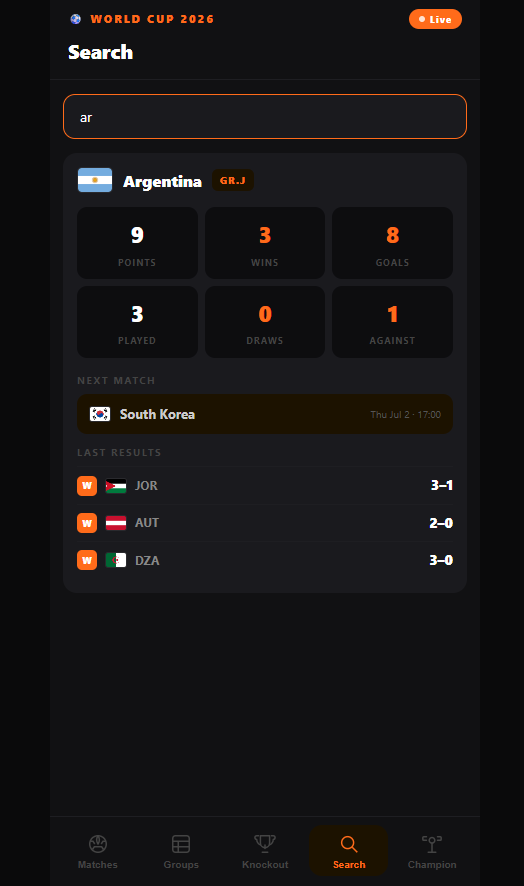
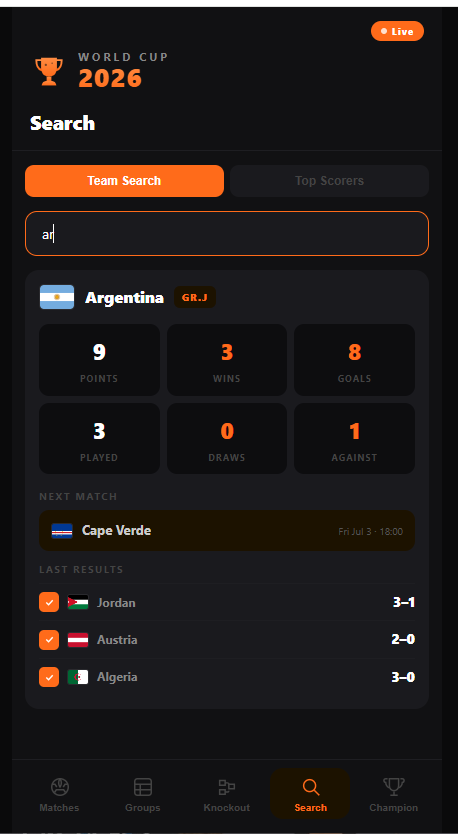
docs: update README with full process, lessons learned, and new screenshots

diff --git a/README.md b/README.md
@@ -1,6 +1,6 @@
 # ⚽ World Cup 2026 App
 
-> A mobile-first World Cup 2026 tracker built from scratch with vanilla HTML, CSS & JavaScript — no frameworks, no libraries, just fundamentals.
+> A mobile-first World Cup 2026 tracker built from scratch with vanilla HTML, CSS & JavaScript — no frameworks, no libraries, just fundamentals. Now powered by real, automatically updating tournament data.
 
 🔴 **[Live Demo → devcodemate.github.io/world-cup-2026](https://devcodemate.github.io/world-cup-2026)**
 
@@ -8,7 +8,7 @@
 ![CSS](https://img.shields.io/badge/CSS3-1572B6?style=flat&logo=css3&logoColor=white)
 ![JavaScript](https://img.shields.io/badge/JavaScript-F7DF1E?style=flat&logo=javascript&logoColor=black)
 ![GitHub Pages](https://img.shields.io/badge/GitHub%20Pages-222222?style=flat&logo=github&logoColor=white)
-![API](https://img.shields.io/badge/API--Football-00A650?style=flat&logoColor=white)
+![GitHub Actions](https://img.shields.io/badge/GitHub%20Actions-2088FF?style=flat&logo=githubactions&logoColor=white)
 
 ---
 
@@ -16,9 +16,13 @@
 
 <div align="center">
 
-| Matches | Groups | Search | Champion |
-|---------|--------|--------|----------|
-| ![Matches](images/matches-20260.png) | ![Groups](images/group-2026.png) | ![Search](images/search-2026.png) | ![Champion](images/champion-2026.png) |
+| Matches | Groups | Knockout |
+|---------|--------|----------|
+| ![Matches](images/matches-2026.png) | ![Groups](images/group-2026.png) | ![Knockout](images/knockout-2026.png) |
+
+| Search | Top Scorers | Champion |
+|--------|-------------|----------|
+| ![Search](images/search-2026.png) | ![Top Scorers](images/scorers-2026.png) | ![Champion](images/champion-2026.png) |
 
 </div>
 
@@ -28,25 +32,24 @@
 
 I'm Flo — a self-taught junior frontend developer building my first portfolio from scratch.
 
-This project started as a real question: *can I build something people actually want to use?*
+This project started as a real question: *can I build something people actually want to use, while the event it's about is literally happening?*
 
-The 2026 World Cup is happening right now. Millions of people are checking scores, tracking their team, following the road to the final. I decided to build my own tracker — not with a tutorial, not copying a template, but designing it from a wireframe and coding it piece by piece.
-
-This is the result: a real app, deployed, working, built by a junior dev who's learning every single day.
+The 2026 World Cup is underway right now. I decided to build my own live tracker — not from a tutorial, not copying a template, but designing it from a wireframe, coding it piece by piece, and connecting it to real automated data over the course of building it. This README documents that whole process, mistakes included, because I think the mistakes are the most useful part for anyone reading this.
 
 ---
 
 ## ✨ Features
 
-- **📅 Match schedule** — every game from group stage to Round of 32, with dates and local times
-- **🔴 Live results** — scores and results for all completed matches
-- **📊 Group standings** — all 12 groups (A–L) with W/D/L, GF, GA, GD and points — calculated automatically from match data
-- **🏆 Knockout stage** — Round of 32 bracket with upcoming matches and win probabilities
-- **🔍 Team search** — search any country, see their stats: points, wins, goals, recent results and next match
-- **📈 Win probability bars** — percentage chances for upcoming matches
-- **⚽ Match detail modal** — tap any match to see goals with scorer names and minutes
-- **⏱️ Countdown** — live timer counting down to the Final on July 19
-- **🏆 Champion screen** — animated figure with the winner's flag once the tournament ends
+- **📅 Live match schedule** — every game from group stage to Round of 32, with real dates, kickoff times, and venues
+- **🔴 Real results** — scores for all completed matches, pulled automatically, not typed in by hand
+- **📊 Group standings** — all 12 groups (A–L) with W/D/L, GF, GA, GD and points — calculated automatically from match results
+- **🥊 Knockout stage** — Round of 32 results with clear ✓ advances / ✗ eliminated indicators per team, plus upcoming fixtures
+- **⚽ Goal-by-goal detail** — tap any match to see who scored, in which minute, grouped by team
+- **⚡ Top Scorers ranking** — calculated live from every goal recorded across the tournament, no separate API needed
+- **📈 Win probability bars** — a formula I designed myself, based on each team's group-stage points and goal difference, not a paid prediction API
+- **🔍 Team search** — search any country, see their stats, group position, and next match
+- **⏱️ Live countdown** — to the Final on July 19
+- **🏆 Champion screen** — animated figure that reveals the winner's flag once the tournament ends, with the three 2026 host countries (USA · Mexico · Canada) featured
 - **🌍 Flag tooltips** — tap any flag to see the full country name
 - **📱 Mobile-first** — designed for phone, works on desktop too
 
@@ -58,9 +61,9 @@ This is the result: a real app, deployed, working, built by a junior dev who's l
 |------|-----|
 | Structure | Semantic HTML5 |
 | Styling | CSS3 — custom properties, flexbox, animations |
-| Logic | Vanilla JavaScript — DOM manipulation, template literals, array methods |
-| Data | Real match data — manually curated from FIFA official sources |
-| API Integration | API-Football (api-sports.io) via GitHub Actions — auto-updates data.json every hour |
+| Logic | Vanilla JavaScript — `fetch`, DOM manipulation, template literals, array methods |
+| Data | Real match data, sourced from [openfootball/worldcup.json](https://github.com/openfootball/worldcup.json), an open-source public domain dataset |
+| Automation | GitHub Actions — fetches fresh tournament data every hour and commits it automatically |
 | Icons | Inline SVG — hand-drawn, no icon library |
 | Flags | [flagcdn.com](https://flagcdn.com) — free flag CDN |
 | Deploy | GitHub Pages — auto-deploy on every push to `main` |
@@ -70,68 +73,54 @@ Every line of code written and understood by me.
 
 ---
 
-## 🤖 API & Automation
-
-This project integrates with the **API-Football** free tier to auto-update match data:
-
-- Match results, standings and upcoming fixtures are fetched automatically via **GitHub Actions**
-- A workflow runs every hour, calls the API with a secure key stored in GitHub Secrets, and commits an updated `data.json` to the repo
-- The API key is **never exposed in the code** — it lives in GitHub Secrets only
-- Built with the guidance of **AI tools** (Claude by Anthropic) to understand API integration patterns, GitHub Actions workflow structure, and professional dev practices
+## 🤖 How the data pipeline actually works
 
 ```
-API-Football → GitHub Actions (every hour) → data.json → App
+openfootball/worldcup.json → GitHub Actions (every hour) → data.json → app.js renders it
 ```
+
+A Node.js script (`scripts/fetch-data.cjs`) runs on a schedule via GitHub Actions. It pulls the latest tournament JSON, reshapes it into the format my app understands, and commits the result as `data.json`. The frontend then does a simple `fetch('data.json')` on load — no hardcoded match arrays anymore, no API key to manage, no rate limits to worry about.
+
+I originally built this on a paid sports API and burned a good chunk of a session discovering its free tier didn't cover the 2026 season at all. Switching to a public-domain dataset that anyone can verify on GitHub turned out to be both more honest and more resilient.
+
+---
+
+## 🪲 What actually went wrong (and what I learned)
+
+Building this wasn't a straight line, and I think that's worth being upfront about:
+
+- **Wrong data source first.** I integrated API-Football before realizing its free tier only covers older seasons (2022–2024), not 2026. Lesson: check a paid API's coverage *before* writing the integration, not after.
+- **A silent JavaScript syntax error.** Leftover code at the bottom of a script (`await` outside an `async` function) silently broke the entire automation for a while — `data.json` kept regenerating empty with no clear error. Adding diagnostic logging to print the API's actual error response was what finally surfaced the real problem.
+- **Node's module system bit me.** `fetch-data.js` failed in GitHub's runner with `ERR_AMBIGUOUS_MODULE_SYNTAX`. Renaming it to `.cjs` told Node explicitly "this is CommonJS" and fixed it for good — small detail, real lesson about how Node resolves module types.
+- **Git merge conflicts, more than once.** The hourly automation and my own commits both touched `data.json` at the same time more than once. I learned `git pull`, resolving conflicts with `git checkout --ours`, and `commit --amend` for fixing a sloppy commit message — all for real, under time pressure, not from a tutorial.
+- **A name mismatch almost broke team flags.** "Curaçao" (with the cedilla) didn't match my "Curacao" entry, and "Bosnia & Herzegovina" didn't match my abbreviated "Bosnia & Herz." — both silently failed to map to a flag until I wrote a script to diff the real team names against my dictionary.
+- **I overbuilt the bracket UI first try.** My first version of the Knockout stage was a horizontal scrolling bracket like FIFA's official site. It looked fine on a wide screen and unreadable on an actual phone. I scrapped it and went back to a clear, vertical, mobile-first list instead — a good reminder that "looks impressive in a screenshot" and "actually usable on the device people will use" aren't the same thing.
 
 ---
 
 ## 📐 How I built it — the process
 
 ### 1. Design before code
-I started with wireframes — sketching the layout, the color palette (black + `#FF6B1A` orange), the navigation pattern, and the mobile viewport before writing a single line of HTML.
-
-**Design decisions I made intentionally:**
-- Dark theme because sports apps live at night
-- Orange accent — reads energy and urgency
-- Bottom nav bar — where thumbs reach on mobile
-- Sticky header so the user always knows where they are
+Wireframes first — layout, color palette (black + `#FF6B1A` orange), navigation pattern, mobile viewport, before writing a single line of HTML.
 
 ### 2. Mobile-first CSS
-CSS written starting from the smallest screen. Desktop styles added with `@media (min-width)`.
-
-Key CSS concepts used:
-- **CSS custom properties** — change one variable, update the whole app
-- **`position: sticky`** — header stays visible while content scrolls
-- **`position: fixed`** — bottom nav stays at the bottom on any screen
-- **Flexbox** — match card layout and tab bar
-- **CSS animations** (`@keyframes`) — live dot pulse, floating champion figure
+CSS written starting from the smallest screen. Desktop styles added with `@media (min-width)`. Custom properties, `position: sticky/fixed`, flexbox, `@keyframes` animations.
 
 ### 3. JavaScript — data, render, navigate
-The JS is structured in three clear responsibilities:
-
 ```
 app.js
-├── DATA        → teams, matches, standings (real tournament data)
-├── RENDER      → functions that build HTML from data
-└── NAVIGATE    → tab switching, countdown, tooltip, modal logic
+├── DATA LOADING → fetch('data.json'), normalize into app format
+├── RENDER       → functions that build HTML from data
+└── NAVIGATE     → tab switching, countdown, modal, sub-tabs
 ```
 
-Key things learned by building this:
-- `querySelectorAll` + `forEach` to connect multiple buttons with `data-tab` attributes
-- Template literals to build HTML strings dynamically
-- `setInterval` for the live countdown
-- `Array.filter`, `Array.reduce`, `Array.find` for calculating team stats on the fly
-- Dynamic standings calculated automatically from match results — no hardcoding
-- Modal pattern with CSS transitions for match detail view
-
-### 4. API integration & GitHub Actions
-- Registered for a free API-Football account
-- Stored the API key securely in GitHub Secrets
-- Built a Node.js script (`scripts/fetch-data.js`) that calls the API and generates `data.json`
-- Created a GitHub Actions workflow (`.github/workflows/update-data.yml`) that runs the script every hour automatically
+### 4. Real automated data
+- Found and integrated [openfootball/worldcup.json](https://github.com/openfootball/worldcup.json), a public-domain dataset, no API key required
+- Wrote `scripts/fetch-data.cjs` to reshape that data into my app's format, including resolving team name mismatches and computing knockout-stage references
+- Set up a GitHub Actions workflow (`.github/workflows/update-data.yml`) that runs the script every hour and auto-commits the result
 
 ### 5. Git workflow
-Used Git from commit one — not as an afterthought.
+Used Git from commit one, with real branching and recovery from real mistakes along the way:
 
 ```
 feat: initial commit — world cup 2026 app
@@ -142,11 +131,16 @@ feat: add match detail modal with goals and stats
 feat: add knockout stage panel and real verified match data
 feat: add GitHub Actions workflow to auto-update data from API-Football
 fix: correct workflows folder name
-docs: add app screenshots
+feat: replace API-Football with openfootball public dataset
+fix: rename fetch-data.js to fetch-data.cjs to resolve Node module error
+feat: connect app.js with data.json
+feat: add logo-style header branding and regenerate data.json
+feat: improve knockout results, group goals by team, and add win probability
+feat: add top scorers sub-tab to search panel
 ```
 
 Worked with:
-- **Conventional Commits** — `feat:`, `fix:`, `docs:`, `style:`
+- **Conventional Commits** — `feat:`, `fix:`, `chore:`, `merge:`
 - **Feature branches** — never committing directly to `main`
 - **GitHub Pages** — auto-deploy on every push
 
@@ -160,12 +154,12 @@ world-cup-2026/
 │   └── workflows/
 │       └── update-data.yml   ← GitHub Actions: auto-update every hour
 ├── scripts/
-│   └── fetch-data.js         ← Node.js script: calls API, writes data.json
+│   └── fetch-data.cjs        ← Node.js script: pulls and reshapes real tournament data
 ├── images/                   ← App screenshots
 ├── index.html                ← App structure, semantic HTML, SVG icons
 ├── style.css                 ← Design tokens, layout, components, animations
-├── app.js                    ← Data, render functions, navigation logic
-├── data.json                 ← Auto-generated by GitHub Actions
+├── app.js                    ← Data fetching, render functions, navigation logic
+├── data.json                 ← Auto-generated every hour, real tournament data
 └── README.md                 ← You are here
 ```
 
@@ -195,6 +189,9 @@ cd world-cup-2026
 
 # Open with Live Server in VS Code
 # Right click index.html → Open with Live Server
+
+# To refresh the data locally:
+node scripts/fetch-data.cjs
 ```
 
 No `npm install`. No build step. No config. Just open and run.
@@ -205,25 +202,26 @@ No `npm install`. No build step. No config. Just open and run.
 
 **HTML** — Semantic elements, `data-*` attributes, inline SVG
 
-**CSS** — Custom properties, mobile-first media queries, `position: sticky/fixed`, flexbox, `@keyframes` animations, pseudo-elements
+**CSS** — Custom properties, mobile-first media queries, `position: sticky/fixed`, flexbox, `@keyframes` animations, pseudo-elements, `background-clip: text` for gradient typography
 
-**JavaScript** — DOM manipulation, event listeners, template literals, array methods (`filter`, `map`, `reduce`, `find`), `setInterval`, date calculations, dynamic HTML rendering, modal patterns
+**JavaScript** — `fetch` and async data loading, DOM manipulation, event listeners, template literals, array methods (`filter`, `map`, `reduce`, `find`, `sort`), `setInterval`, date calculations, dynamic HTML rendering, modal patterns, designing my own scoring/probability algorithm
 
-**Git & GitHub** — `init`, `add`, `commit`, `push`, `pull`, remote repositories, feature branches, Conventional Commits, GitHub Pages deployment, GitHub Actions, GitHub Secrets
+**Git & GitHub** — `init`, `add`, `commit`, `push`, `pull`, remote repositories, feature branches, Conventional Commits, `commit --amend`, resolving real merge conflicts, GitHub Pages deployment, GitHub Actions, GitHub Secrets
 
-**APIs** — REST API concepts, HTTP headers, API keys, rate limits, free tier usage
+**Data & APIs** — Evaluating whether a data source actually fits your use case before integrating it, working with public-domain datasets, designing data transformation pipelines, handling missing/incomplete data gracefully instead of faking it
 
-**GitHub Actions** — YAML workflow syntax, scheduled jobs (`cron`), environment secrets, automated commits
+**Node.js** — CommonJS vs ES Modules, debugging silent failures with diagnostic logging, scheduled automation via GitHub Actions cron
+
+**Product thinking** — Knowing when a feature (a real-time API, a fancy horizontal bracket) isn't worth the complexity it adds, and choosing the simpler, more honest, more usable version instead
 
 ---
 
 ## 🔮 What's next
 
-- [ ] Connect `app.js` to read `data.json` for fully live data
-- [ ] Update results as knockout stage progresses (Round of 16, QF, SF, Final)
-- [ ] Animate champion screen when winner is confirmed
-- [ ] Add full knockout bracket visualization
-- [ ] Refactor data into separate `data.js` file
+- [ ] Surface Round of 16 / Quarter-finals / Semi-finals once the bracket fills in
+- [ ] Animate the champion screen when the Final is decided
+- [ ] Penalty-shootout results once the data source publishes them
+- [ ] Possibly contribute fixes upstream to openfootball if I spot more data mismatches
 
 ---
 
@@ -231,11 +229,11 @@ No `npm install`. No build step. No config. Just open and run.
 
 I'm **Flo** — a junior frontend developer based in Argentina, building my portfolio one real project at a time.
 
-I'm not coming from a bootcamp or a CS degree. I'm coming from genuine curiosity, a lot of hours in VS Code, and a commitment to understanding *why* things work, not just *that* they work.
+I'm not coming from a bootcamp or a CS degree. I'm coming from genuine curiosity, a lot of hours in VS Code, and a commitment to understanding *why* things work, not just *that* they work — including when they break.
 
-Parts of this project were built with the guidance of **AI tools** — specifically Claude by Anthropic — to learn professional patterns around API integration, GitHub Actions, and dev workflows. Every decision was understood and implemented by me.
+Parts of this project were built with the guidance of **AI tools** — specifically Claude by Anthropic — to learn professional patterns around data pipelines, GitHub Actions, debugging, and dev workflows. Every decision, every mistake, and every fix was understood and implemented by me, in real time, while the actual 2026 World Cup was being played.
 
-This is my second deployed project. I'm looking for my first paid role — junior frontend, internship, or freelance work where I can keep learning while contributing real value.
+I'm looking for my first paid role — junior frontend, internship, or freelance work where I can keep learning while contributing real value.
 
 **Find me:**
 - 🐙 GitHub: [@devCODEMATE](https://github.com/devCODEMATE)
@@ -243,5 +241,5 @@ This is my second deployed project. I'm looking for my first paid role — junio
 ---
 
 <p align="center">
-  Built with 🧡 and a lot of <code>git commit</code>s by <strong>devCODEMATE</strong>
+  Built with 🧡 and a lot of <code>git commit</code>s by <strong>devCODEMATE</strong> — during the actual 2026 World Cup
 </p>